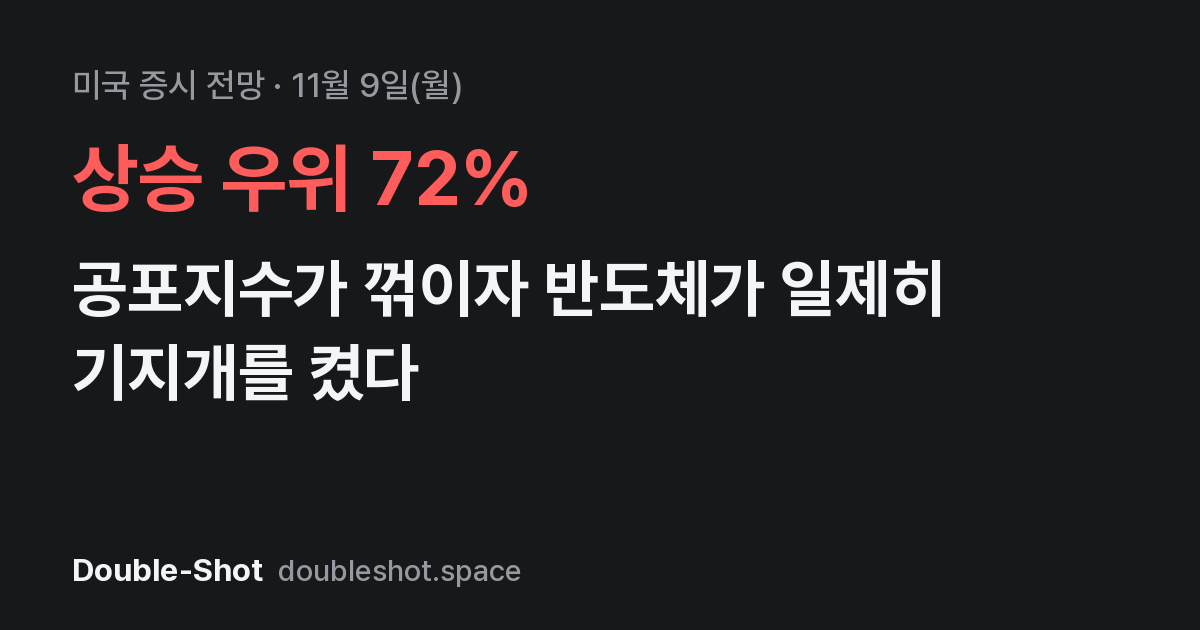
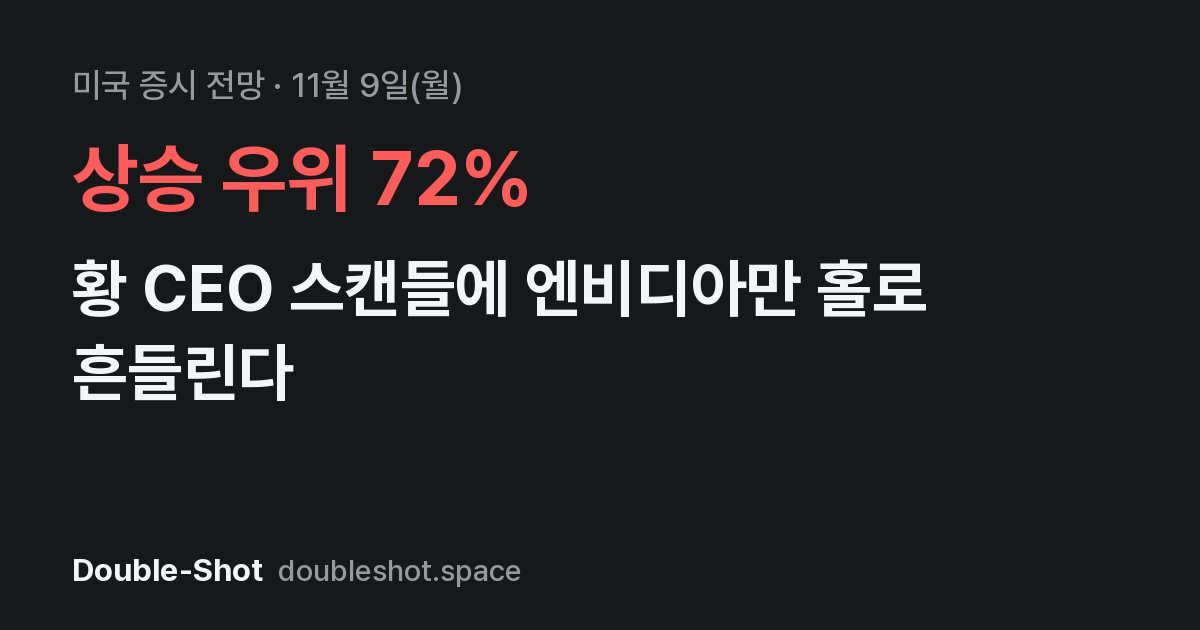
🇺🇸 미국 브리핑: 2026-11-09 22:54 KST

Changed region(s): [[0.0617, 0.3921, 0.8017, 0.5127], [0.0617, 0.5429, 0.37, 0.6333]]

diff --git a/web/briefings/2026-11-09/us/index.html b/web/briefings/2026-11-09/us/index.html
@@ -5,23 +5,23 @@
 <head>
 <meta charset="UTF-8">
 <meta name="viewport" content="width=device-width, initial-scale=1.0">
-<title>미국 증시 전망 11월 9일 | 공포지수가 꺾이자 반도체가 일제히 기지개를 켰다</title>
+<title>미국 증시 전망 11월 9일 | 황 CEO 스캔들에 엔비디아만 홀로 흔들린다</title>
 <meta name="naver-site-verification" content="d2ac1feb412642dd359d2c5db626a1dffeaf8110" />
 <link rel="alternate" type="application/rss+xml" title="Double-Shot 브리핑" href="https://doubleshot.space/briefings/rss.xml">
 
-<meta name="description" content="VIX가 이틀 연속 꺾이고 S&amp;P·나스닥 선물이 동반 반등하면서 지난주 투매로 짓눌렸던 반도체·빅테크가 일제히 되살아나는 그림이에요. 다만 낙폭이 워낙 컸던 만큼 되돌림 수준인지, 추세 전환인지는 내일 밤 CPI가 확인해 줄 거예요.">
+<meta name="description" content="유가가 꺾이면서 지수 선물은 전반적으로 떠 있는데, 젠슨 황 관련 의혹 하나가 엔비디아를 끌어내리고 있어요. 내일 밤 나올 CPI가 다음 바통을 쥐고 있어요.">
 <meta name="robots" content="index, follow, max-image-preview:large, max-snippet:-1">
 <meta property="og:type" content="website">
 <meta property="og:site_name" content="Double-Shot">
 <meta property="og:locale" content="ko_KR">
 <meta property="og:url" content="https://doubleshot.space/briefings/2026-11-09/us/">
-<meta property="og:title" content="미국 증시 전망 11월 9일 | 공포지수가 꺾이자 반도체가 일제히 기지개를 켰다">
-<meta property="og:description" content="VIX가 이틀 연속 꺾이고 S&amp;P·나스닥 선물이 동반 반등하면서 지난주 투매로 짓눌렸던 반도체·빅테크가 일제히 되살아나는 그림이에요. 다만 낙폭이 워낙 컸던 만큼 되돌림 수준인지, 추세 전환인지는 내일 밤 CPI가 확인해 줄 거예요.">
+<meta property="og:title" content="미국 증시 전망 11월 9일 | 황 CEO 스캔들에 엔비디아만 홀로 흔들린다">
+<meta property="og:description" content="유가가 꺾이면서 지수 선물은 전반적으로 떠 있는데, 젠슨 황 관련 의혹 하나가 엔비디아를 끌어내리고 있어요. 내일 밤 나올 CPI가 다음 바통을 쥐고 있어요.">
 
 <meta property="og:image" content="https://doubleshot.space/briefings/2026-11-09/us/og.png">
 <meta name="twitter:card" content="summary_large_image">
-<meta name="twitter:title" content="미국 증시 전망 11월 9일 | 공포지수가 꺾이자 반도체가 일제히 기지개를 켰다">
-<meta name="twitter:description" content="VIX가 이틀 연속 꺾이고 S&amp;P·나스닥 선물이 동반 반등하면서 지난주 투매로 짓눌렸던 반도체·빅테크가 일제히 되살아나는 그림이에요. 다만 낙폭이 워낙 컸던 만큼 되돌림 수준인지, 추세 전환인지는 내일 밤 CPI가 확인해 줄 거예요.">
+<meta name="twitter:title" content="미국 증시 전망 11월 9일 | 황 CEO 스캔들에 엔비디아만 홀로 흔들린다">
+<meta name="twitter:description" content="유가가 꺾이면서 지수 선물은 전반적으로 떠 있는데, 젠슨 황 관련 의혹 하나가 엔비디아를 끌어내리고 있어요. 내일 밤 나올 CPI가 다음 바통을 쥐고 있어요.">
 <meta name="twitter:image" content="https://doubleshot.space/briefings/2026-11-09/us/og.png">
 
 <link href="https://cdn.jsdelivr.net/gh/orioncactus/pretendard@v1.3.9/dist/web/variable/pretendardvariable-dynamic-subset.min.css" rel="stylesheet">
@@ -61,18 +61,18 @@
           <div class="accordion-body__inner">
             
 <div class="pm-strip">
-  <div class="pm-h"><span class="ic-tag fact">지금 프리마켓 · 실측</span><span class="pm-asof">21:16 KST 기준 · 전일 종가 대비</span></div>
+  <div class="pm-h"><span class="ic-tag fact">지금 프리마켓 · 실측</span><span class="pm-asof">22:53 KST 기준 · 전일 종가 대비</span></div>
   
-  <div class="pm-row"><span class="pm-i"><em>S&P500 선물</em><b class="up">+0.61%</b></span><span class="pm-i"><em>나스닥 선물</em><b class="up">+0.54%</b></span><span class="pm-i"><em>다우 선물</em><b class="up">+0.97%</b></span></div>
+  <div class="pm-row"><span class="pm-i"><em>S&P500 선물</em><b class="up">+0.79%</b></span><span class="pm-i"><em>나스닥 선물</em><b class="up">+0.75%</b></span><span class="pm-i"><em>다우 선물</em><b class="up">+1.13%</b></span></div>
   
-  <div class="pm-row"><span class="pm-i"><em>NVDA</em><b class="dn">−5.87%</b></span><span class="pm-i"><em>AAPL</em><b class="up">+0.65%</b></span><span class="pm-i"><em>MSFT</em><b class="up">+1.91%</b></span><span class="pm-i"><em>AMZN</em><b class="up">+2.56%</b></span><span class="pm-i"><em>META</em><b class="up">+2.83%</b></span><span class="pm-i"><em>GOOGL</em><b class="up">+1.86%</b></span></div>
+  <div class="pm-row"><span class="pm-i"><em>NVDA</em><b class="dn">−5.58%</b></span><span class="pm-i"><em>AAPL</em><b class="up">+0.64%</b></span><span class="pm-i"><em>MSFT</em><b class="up">+2.05%</b></span><span class="pm-i"><em>AMZN</em><b class="up">+3.33%</b></span><span class="pm-i"><em>META</em><b class="up">+3.03%</b></span><span class="pm-i"><em>GOOGL</em><b class="up">+2.51%</b></span></div>
   
 </div>
             
             <div class="open-section tv-lead up">
               <div class="tv-kicker">🧭 오늘의 관점</div>
-              <h2 class="tv-title">공포지수가 꺾이자 반도체가 일제히 기지개를 켰다</h2>
-              <p class="tv-dek">VIX가 이틀 연속 꺾이고 S&P·나스닥 선물이 동반 반등하면서 지난주 투매로 짓눌렸던 <b>반도체·빅테크</b>가 일제히 되살아나는 그림이에요. 다만 낙폭이 워낙 컸던 만큼 되돌림 수준인지, 추세 전환인지는 내일 밤 <b>CPI</b>가 확인해 줄 거예요.</p>
+              <h2 class="tv-title">황 CEO 스캔들에 엔비디아만 홀로 흔들린다</h2>
+              <p class="tv-dek">유가가 꺾이면서 지수 선물은 전반적으로 떠 있는데, <b>젠슨 황 관련 의혹</b> 하나가 엔비디아를 끌어내리고 있어요. 내일 밤 나올 <b>CPI</b>가 다음 바통을 쥐고 있어요.</p>
             </div>
             
             
@@ -82,20 +82,36 @@
   <div class="issue-list issue-list--numbered">
     
     <div class="issue-card">
-      <div class="issue-card__title">VIX 이틀 연속 급락 — 패닉 되돌림 국면</div>
-      <div class="issue-card__body">지난주 급등했던 공포지수가 빠르게 식으면서 S&P·다우·나스닥 선물이 일제히 반등해 낙폭 과대 반도체·빅테크 중심으로 저가 매수가 들어오는 분위기예요.</div>
+      <div class="issue-card__title">젠슨 황 불륜 의혹에 NVDA 프리마켓 약세</div>
+      <div class="issue-card__body">실적이나 실적이나 수요 이슈가 아니라 CEO 개인 리스크라는 점에서 반도체 전반보다 NVDA 단일 종목에 충격이 집중되고 있어요.</div>
       
       <div class="issue-card__impact">
         
         <div class="imp-side down">
-          <span class="imp-arrow">▼</span><span class="imp-label">안전자산</span>
-          <span class="imp-tickers"><span class="imp-tk">GLD</span></span>
+          <span class="imp-arrow">▼</span><span class="imp-label">엔비디아</span>
+          <span class="imp-tickers"><span class="imp-tk">NVDA</span></span>
+        </div>
+        
+        
+      </div>
+      
+    </div>
+    
+    <div class="issue-card">
+      <div class="issue-card__title">유가 급락이 엔비디아 충격 상쇄</div>
+      <div class="issue-card__body">WTI·브렌트유가 동반 하락하면서 비용 부담이 줄어든 항공·운송·소비재가 반사이익을 보고, 지수 전반의 하방 압력을 완화하고 있어요.</div>
+      
+      <div class="issue-card__impact">
+        
+        <div class="imp-side down">
+          <span class="imp-arrow">▼</span><span class="imp-label">에너지</span>
+          <span class="imp-tickers"><span class="imp-tk">CVX</span><span class="imp-tk">XOM</span></span>
         </div>
         
         
         <div class="imp-side up">
-          <span class="imp-arrow">▲</span><span class="imp-label">반도체·빅테크</span>
-          <span class="imp-tickers"><span class="imp-tk">NVDA</span><span class="imp-tk">AMD</span><span class="imp-tk">AVGO</span><span class="imp-tk">MU</span></span>
+          <span class="imp-arrow">▲</span><span class="imp-label">운송·소비재</span>
+          
         </div>
         
       </div>
@@ -103,8 +119,24 @@
     </div>
     
     <div class="issue-card">
-      <div class="issue-card__title">내일 밤 10시 30분 CPI — 되돌림 랠리의 진짜 시험</div>
-      <div class="issue-card__body">물가가 예상치 부근으로 둔화되면 지금의 반등이 이어지고, 서프라이즈로 높게 나오면 금리 민감 성장주가 다시 흔들릴 수 있어요.</div>
+      <div class="issue-card__title">직전 정규장 반도체 섹터는 강하게 반등</div>
+      <div class="issue-card__body">AMD·마이크론·AMAT 등 반도체 장비·메모리주는 직전 정규장에서 큰 폭으로 올랐던 터라, 오늘 NVDA 개별 악재가 섹터 전체로 번질지가 관전거리예요.</div>
+      
+      <div class="issue-card__impact">
+        
+        
+        <div class="imp-side up">
+          <span class="imp-arrow">▲</span><span class="imp-label">반도체 장비·메모리</span>
+          <span class="imp-tickers"><span class="imp-tk">AMD</span><span class="imp-tk">MU</span><span class="imp-tk">AMAT</span><span class="imp-tk">LRCX</span><span class="imp-tk">KLAC</span></span>
+        </div>
+        
+      </div>
+      
+    </div>
+    
+    <div class="issue-card">
+      <div class="issue-card__title">내일 밤 CPI 발표 대기</div>
+      <div class="issue-card__body">내일 밤 10시 30분 나오는 CPI·근원CPI가 예상치보다 높으면 금리 인하 기대가 후퇴하며 위험자산 전반에 부담을 줄 수 있어요.</div>
       
       <div class="issue-card__impact">
         
@@ -113,6 +145,22 @@
           
         </div>
         
+        
+      </div>
+      
+    </div>
+    
+    <div class="issue-card">
+      <div class="issue-card__title">VIX 급락에 금융·대형주 프리마켓 강세</div>
+      <div class="issue-card__body">공포지수가 직전 이틀 급등 후 꺾이면서 JPM·GS·MS 같은 은행주가 프리마켓에서 고르게 오르는 등 위험선호가 되살아나는 분위기예요.</div>
+      
+      <div class="issue-card__impact">
+        
+        
+        <div class="imp-side up">
+          <span class="imp-arrow">▲</span><span class="imp-label">금융</span>
+          <span class="imp-tickers"><span class="imp-tk">JPM</span><span class="imp-tk">GS</span><span class="imp-tk">MS</span><span class="imp-tk">BAC</span></span>
+        </div>
         
       </div>
       
@@ -230,7 +278,7 @@
 </section>
       
 <div class="right-panel" id="market-data-panel">
-  <div class="panel-header"><span class="section-title">시장 지표</span><span class="pub-time">21:16 KST</span></div>
+  <div class="panel-header"><span class="section-title">시장 지표</span><span class="pub-time">22:53 KST</span></div>
   
   <div class="fng-dial">
     <span class="fng-dial-name">공포·탐욕 지수<button class="info-icon-btn" data-modal-open="fng-modal">?</button></span>
@@ -243,14 +291,14 @@
         <path d="M158.0 42.0 A82 82 0 0 1 182.0 100.0" stroke="#FCA5A5"/>
       </g>
       <path class="fng-needle" d="M100 100 L100 42" stroke-width="3" stroke-linecap="round"
-            transform="rotate(-45.47 100 100)"/>
+            transform="rotate(-45.83 100 100)"/>
       <circle class="fng-pivot" cx="100" cy="100" r="5.5"/>
       <text class="fng-tick" x="14" y="112">0 공포</text>
       <text class="fng-tick" x="150" y="112">탐욕 100</text>
     </svg>
     <div class="fng-score">25</div>
     <div class="fng-state high">극단적 공포</div>
-    <div class="fng-sub">전일 22.1 · +2.7p</div>
+    <div class="fng-sub">전일 22.1 · +2.5p</div>
   </div>
   
   
@@ -259,7 +307,7 @@
     <div class="mkt-row">
       <div class="mkt-row-info">
         <span class="mkt-name" style="display:flex;align-items:center;gap:4px">VIX 공포지수<button class="info-icon-btn" data-modal-open="vix-modal">?</button></span>
-        <div class="mkt-vals"><div class="mkt-val">23.50</div><div class="mkt-chg down">-8.35%</div></div>
+        <div class="mkt-vals"><div class="mkt-val">23.19</div><div class="mkt-chg down">-9.56%</div></div>
       </div>
       
       <div class="mkt-spark" style="display:flex;align-items:center;justify-content:flex-end"><span class="vix-badge elevated">경계</span></div>
@@ -300,7 +348,7 @@ window.addEventListener('load', function () {
   <span class="sidebar-visitors__label">누적 방문자</span>
   <span class="sidebar-visitors__count" id="sidebar-visitors-count">—</span>
 </div>
-<div class="t-caption" style="margin-top:10px;text-align:right">생성: 2026-11-09T21:16:34.034793+09:00</div>
+<div class="t-caption" style="margin-top:10px;text-align:right">생성: 2026-11-09T22:53:59.108836+09:00</div>
     </aside>
   </div>
 
@@ -339,7 +387,7 @@ window.addEventListener('load', function () {
       <div class="bl-slot is-current">
         <div class="bl-slot__label">미국 시장</div>
         <div class="bl-slot__title">상승 우위</div>
-        <div class="bl-slot__meta"><span class="bl-pill up">▲</span><span class="bl-slot__time">21:19</span></div>
+        <div class="bl-slot__meta"><span class="bl-pill up">▲</span><span class="bl-slot__time">22:54</span></div>
       </div>
       
       

diff --git a/web/stocks/index.html b/web/stocks/index.html
@@ -152,7 +152,7 @@
       <p class="rb-intro">매일 아침 코스피 시초가 예측, 오후 코스피 마감, 저녁 미국 시장 브리핑이 나가요. 토요일엔 한 주를 정리한 주간 장기 리포트가 나가요.</p>
       <ol class="rb-list">
       <!-- RECENT_BRIEFINGS:START -->
-      <li class="rb-item feat"><a href="/briefings/2026-11-09/us/"><div class="rb-meta">11/9(월) · 미국 시장</div><div class="rb-h">공포지수가 꺾이자 반도체가 일제히 기지개를 켰다</div><div class="rb-d">VIX가 이틀 연속 꺾이고 S&P·나스닥 선물이 동반 반등하면서 지난주 투매로 짓눌렸던 <b>반도체·빅테크</b>가 일제히 되살아나는 그림이에요. 다만 낙폭이 워낙 컸던 만큼 되돌림 수준인지, 추세 전환인지는 내일 밤 <b>CPI</b>가 확인해 줄 거예요.</div></a></li>
+      <li class="rb-item feat"><a href="/briefings/2026-11-09/us/"><div class="rb-meta">11/9(월) · 미국 시장</div><div class="rb-h">황 CEO 스캔들에 엔비디아만 홀로 흔들린다</div><div class="rb-d">유가가 꺾이면서 지수 선물은 전반적으로 떠 있는데, <b>젠슨 황 관련 의혹</b> 하나가 엔비디아를 끌어내리고 있어요. 내일 밤 나올 <b>CPI</b>가 다음 바통을 쥐고 있어요.</div></a></li>
       <li class="rb-item"><a href="/briefings/2026-11-09/close/"><div class="rb-meta">11/9(월) · 코스피 마감</div><div class="rb-h">2차전지 -8.59%, 삼성SDI 두 자릿수 급락에 코스피 5000 턱걸이</div></a></li>
       <li class="rb-item"><a href="/briefings/2026-11-09/kospi/"><div class="rb-meta">11/9(월) · 코스피 예측</div><div class="rb-h">목요일, 금요일… 반도체가 롤러코스터에서 내릴까</div></a></li>
       <li class="rb-item wk"><a href="/weekly/2026-11-06/"><div class="rb-meta">📅 11/2~11/6 · 주간 장기 리포트</div><div class="rb-h">코스피 한 주 −11.7%, 나스닥은 200일선 아래로</div></a></li>

diff --git a/web/briefings/index.html b/web/briefings/index.html
@@ -78,8 +78,8 @@
       <div class="arch-day__items">
         
         <a class="arch-item is-featured" href="/briefings/2026-11-09/us/">
-          <span class="arch-item__headline">공포지수가 꺾이자 반도체가 일제히 기지개를 켰다</span>
-          <span class="arch-item__dek">VIX가 이틀 연속 꺾이고 S&P·나스닥 선물이 동반 반등하면서 지난주 투매로 짓눌렸던 <b>반도체·빅테크</b>가 일제히 되살아나는 그림이에요. 다만 낙폭이 워낙 컸던 만큼 되돌림 수준인지, 추세 전환인지는 내일 밤 <b>CPI</b>가 확인해 줄 거예요.</span>
+          <span class="arch-item__headline">황 CEO 스캔들에 엔비디아만 홀로 흔들린다</span>
+          <span class="arch-item__dek">유가가 꺾이면서 지수 선물은 전반적으로 떠 있는데, <b>젠슨 황 관련 의혹</b> 하나가 엔비디아를 끌어내리고 있어요. 내일 밤 나올 <b>CPI</b>가 다음 바통을 쥐고 있어요.</span>
           <span class="arch-item__label">미국 시장</span>
         </a>
         
